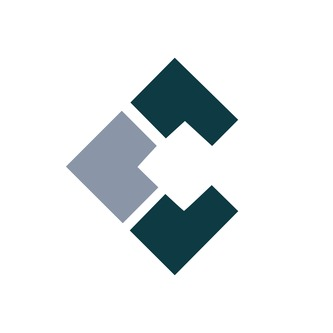
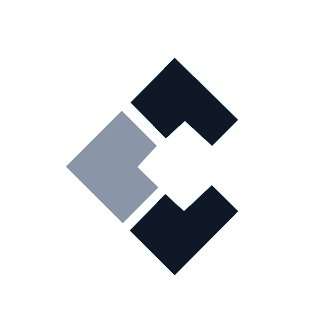
Revert navy, keep orange and amber accents
Brand-secondary goes back to Deep Navy (#101827) and brand-bg back to
Soft Grey, undoing the teal experiment. Orange (buttons, emphasis) and
amber (stats) stay as the new accent colors. Logo/favicon files
recolored from teal back to navy, keeping the new logo artwork's shape.

Changed region(s): [[0.3904, 0.5405, 0.7207, 0.8408], [0.3904, 0.1802, 0.7207, 0.4505]]

diff --git a/unzii-website/src/app/globals.css b/unzii-website/src/app/globals.css
@@ -3,9 +3,9 @@
 :root {
   /* Brand */
   --color-brand-primary: #8a96a8; /* Cool Grey */
-  --color-brand-secondary: #0e3a44; /* Deep Teal */
+  --color-brand-secondary: #101827; /* Deep Navy */
   --color-brand-supporting: #f2933a; /* Warm Orange */
-  --color-brand-bg: #eef4f3; /* Teal Tint */
+  --color-brand-bg: #e8edf3; /* Soft Grey */
   --color-amber: #ffc145; /* Amber — stats and secondary highlights only */
   --color-accent-ink: #3a2400; /* Dark text for use on orange/amber fills */
 
@@ -14,8 +14,8 @@
   --color-surface-subtle: #f6f8fa;
   --color-surface-muted: var(--color-brand-bg);
   --color-surface-inverse: var(--color-brand-secondary);
-  /* Deeper teal tint, for section backgrounds that need more weight than the Teal Tint */
-  --color-surface-tint: #cfe0df;
+  /* Deeper tint of Soft Grey, for section backgrounds that need more weight */
+  --color-surface-tint: #d8dee7;
 
   --color-border: #e2e6ec;
   --color-border-strong: #c9d0db;
